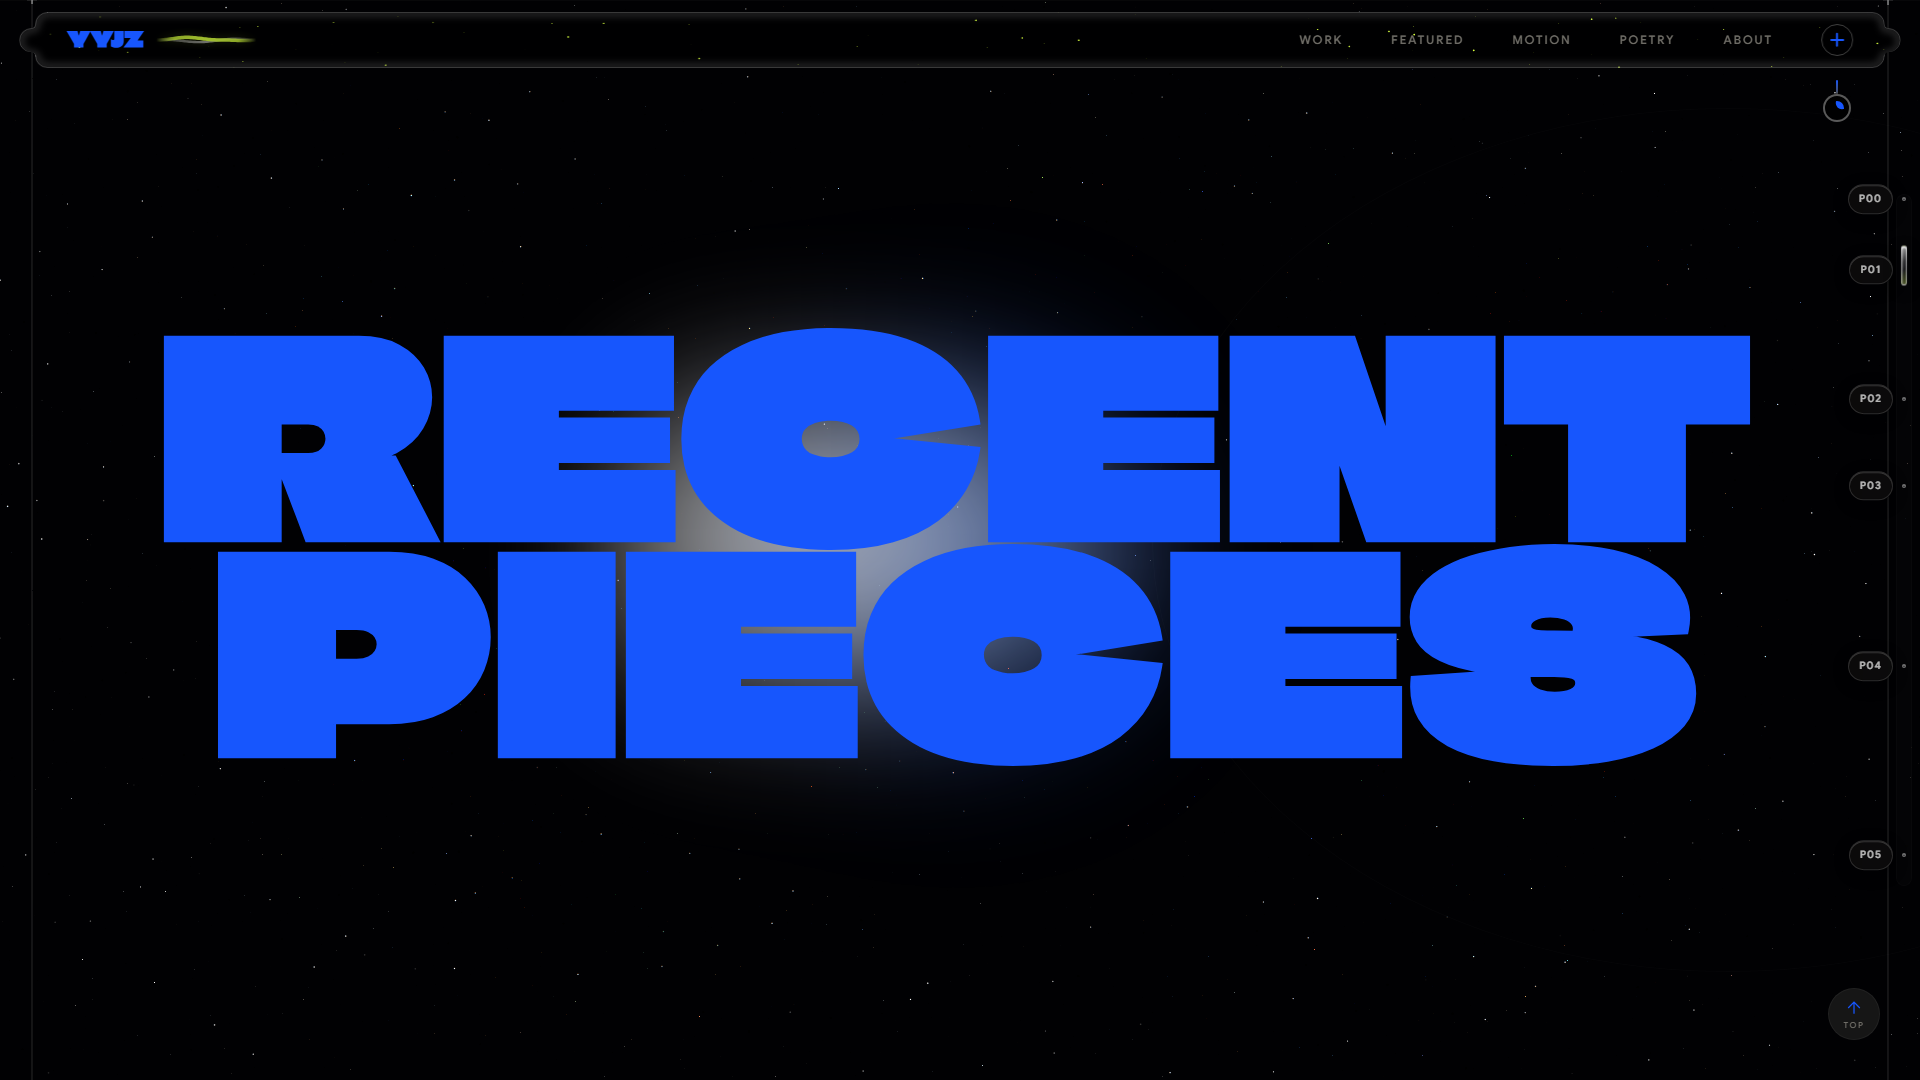
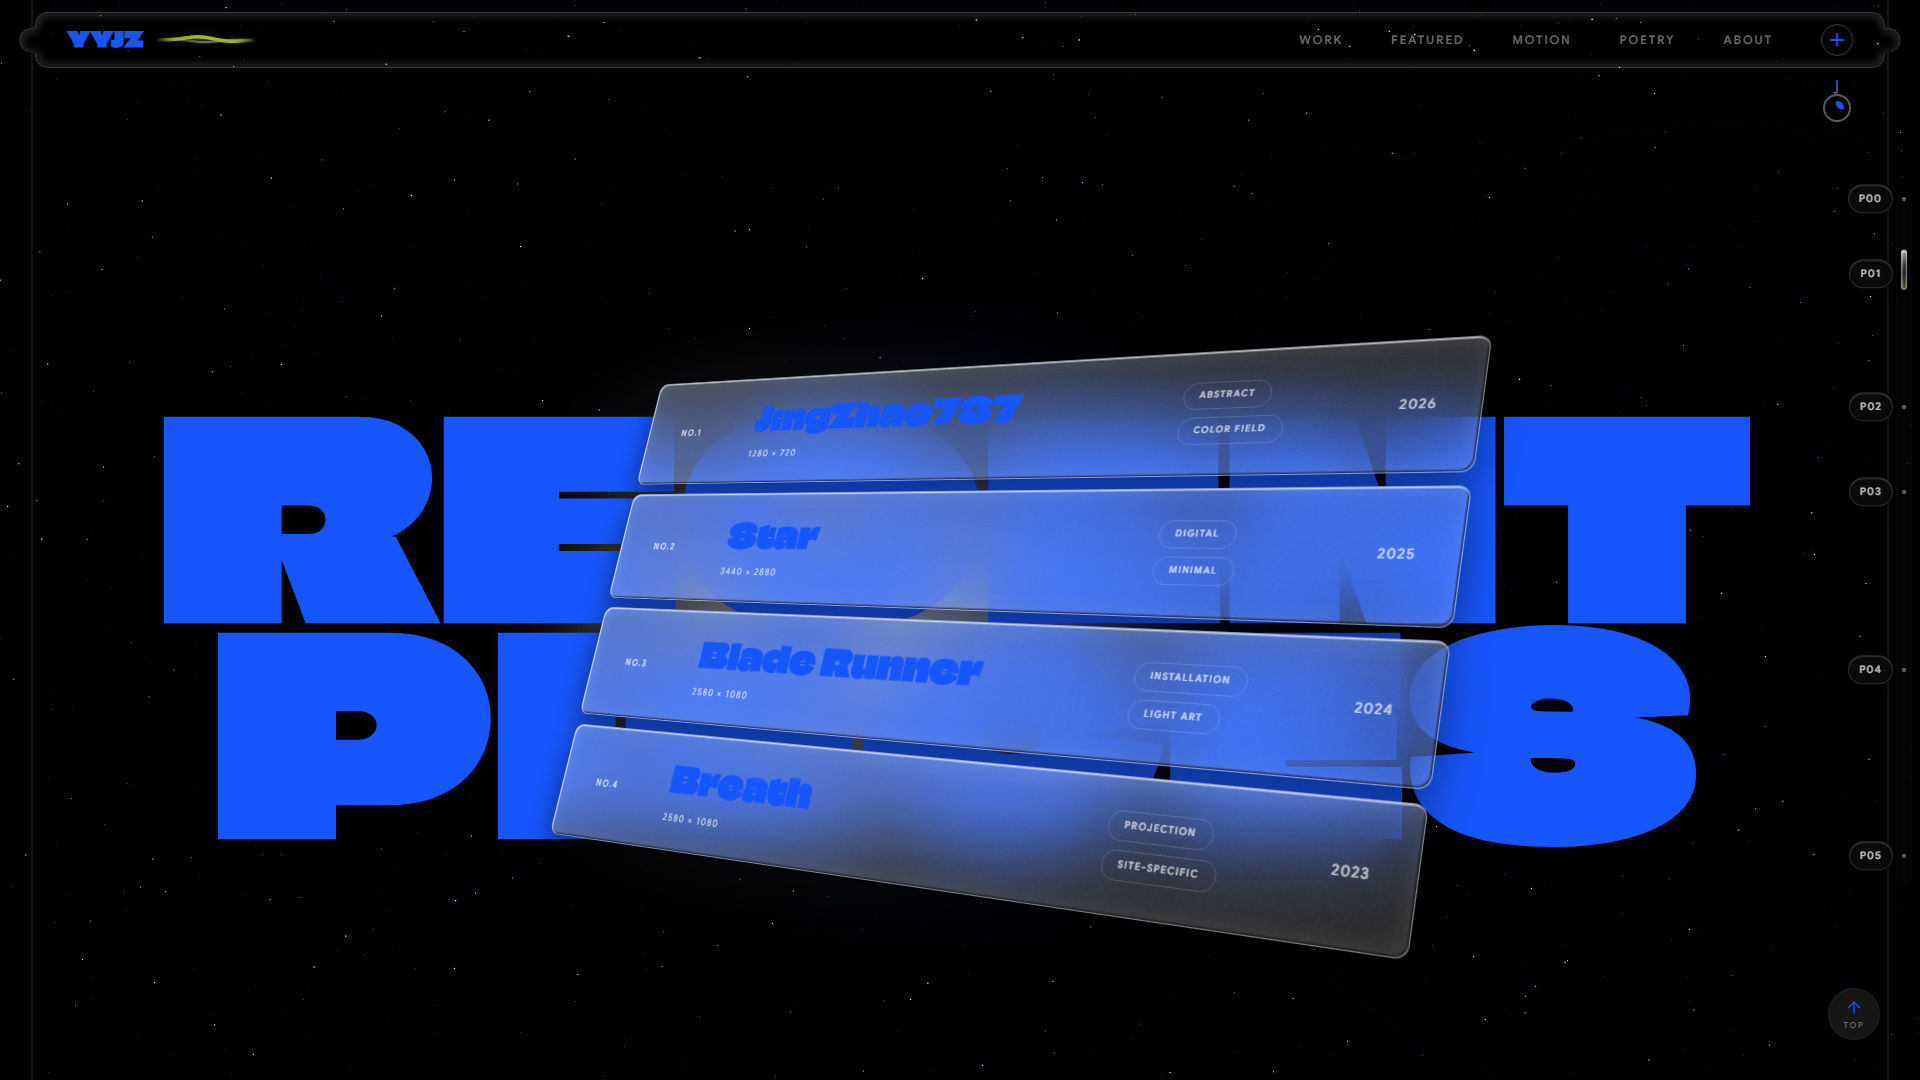
make works section taller (115vh), reduce card dimensions to fit comfortably, and shift cards further down

diff --git a/styles.css b/styles.css
@@ -3381,7 +3381,7 @@ a:focus-visible,button:focus-visible{outline:2px solid var(--accent);outline-off
     width: 100%;
     max-width: 100%;
     padding: 0 64px;
-    height: 100vh;
+    height: 115vh;
     box-sizing: border-box;
     perspective: 1750px;
     overflow: visible;
@@ -3406,14 +3406,14 @@ a:focus-visible,button:focus-visible{outline:2px solid var(--accent);outline-off
     margin: 0 auto;
     transform-style: preserve-3d;
     transition: none;
-    transform: translateX(-100px) translateY(140px) rotateY(-34deg) rotateX(17deg) rotateZ(2deg);
+    transform: translateX(-100px) translateY(120px) rotateY(-34deg) rotateX(17deg) rotateZ(2deg);
   }
 
   .work-list .work-card {
     margin-left: 0;
     margin-right: 0;
-    margin-bottom: 16px;
-    padding: 36px 48px;
+    margin-bottom: 12px;
+    padding: 26px 40px;
     gap: 32px;
     grid-template-columns: 80px 1fr 140px 80px;
     border: 1.5px solid rgba(255, 255, 255, 0.45);
